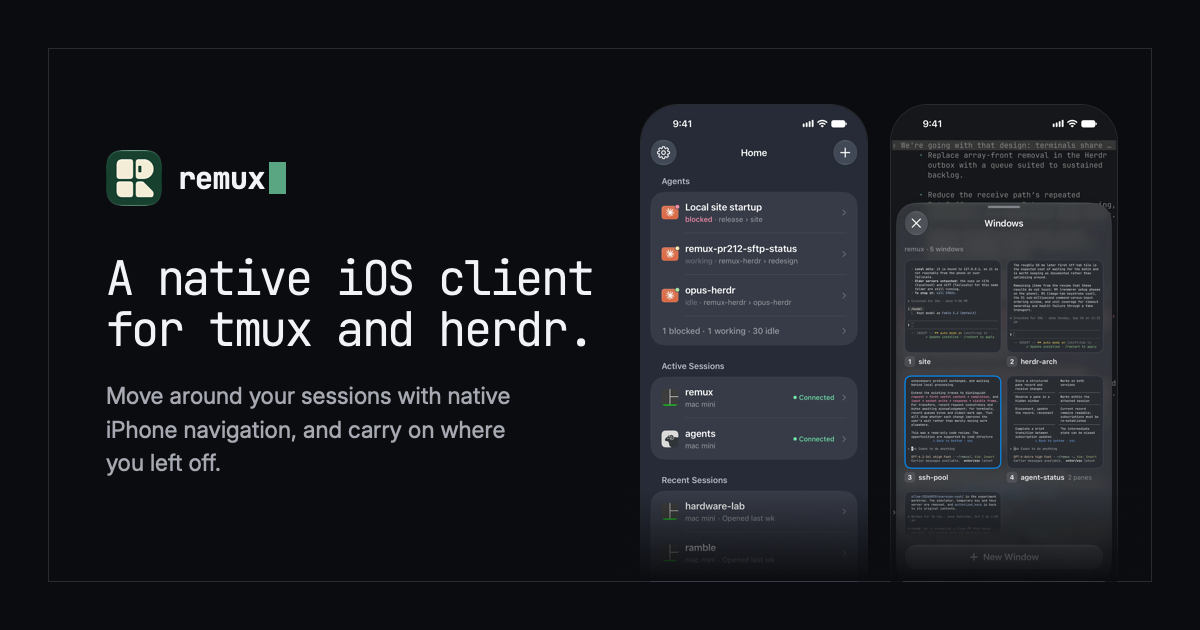
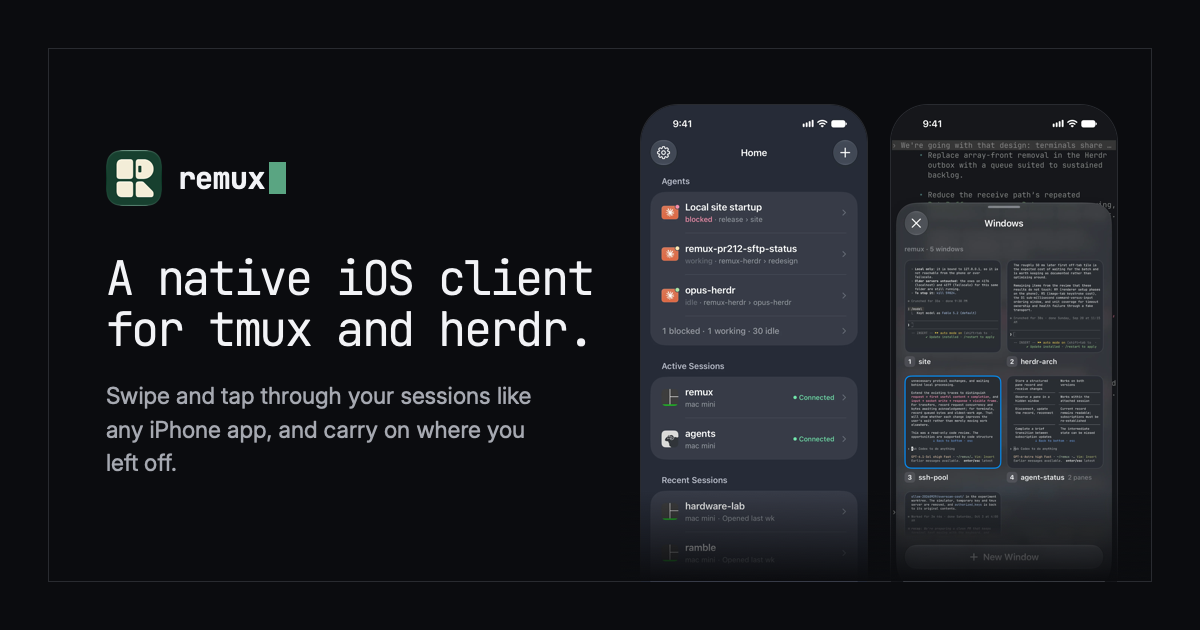
say how you get around in the opening sentence
"Native iPhone navigation" is not a phrase people use. The sentence, the
link preview image and the two descriptions now say the same thing.

Changed region(s): [[0.0925, 0.6032, 0.4625, 0.754]]

diff --git a/remux-site/index.html b/remux-site/index.html
@@ -4,7 +4,7 @@
   <meta charset="utf-8">
   <meta name="viewport" content="width=device-width, initial-scale=1">
   <title>Remux: a native iOS client for tmux and herdr</title>
-  <meta name="description" content="A native iOS client for tmux and herdr. Attach to your sessions from your iPhone and carry on where you left off.">
+  <meta name="description" content="A native iOS client for tmux and herdr. Swipe and tap through your sessions like any iPhone app, and carry on where you left off.">
   <meta name="theme-color" content="#fafbfc" media="(prefers-color-scheme: light)">
   <meta name="theme-color" content="#0b0c0f" media="(prefers-color-scheme: dark)">
   <link rel="icon" href="./assets/favicon.svg" type="image/svg+xml">
@@ -15,7 +15,7 @@
   <meta property="og:site_name" content="Remux">
   <meta property="og:url" content="https://getremux.app/">
   <meta property="og:title" content="Remux: a native iOS client for tmux and herdr">
-  <meta property="og:description" content="Attach to your tmux and herdr sessions from your iPhone and carry on where you left off.">
+  <meta property="og:description" content="Swipe and tap through your sessions like any iPhone app, and carry on where you left off.">
   <meta property="og:image" content="https://getremux.app/og.png">
   <meta property="og:image:width" content="1200">
   <meta property="og:image:height" content="630">
@@ -45,7 +45,7 @@
       <section class="hero" aria-labelledby="name">
         <div class="hero-copy">
           <h1 id="name">A native iOS client for tmux and herdr.</h1>
-          <p class="lede">Move around your sessions with native iPhone navigation, and carry on where you left off.</p>
+          <p class="lede">Swipe and tap through your sessions like any iPhone app, and carry on where you left off.</p>
           <div class="actions">
             <a class="btn pri" href="https://testflight.apple.com/join/fHqG1ruE">Join the TestFlight beta</a>
             <a class="btn" href="https://github.com/h3nock/remux">Source on GitHub <span aria-hidden="true">↗</span></a>
